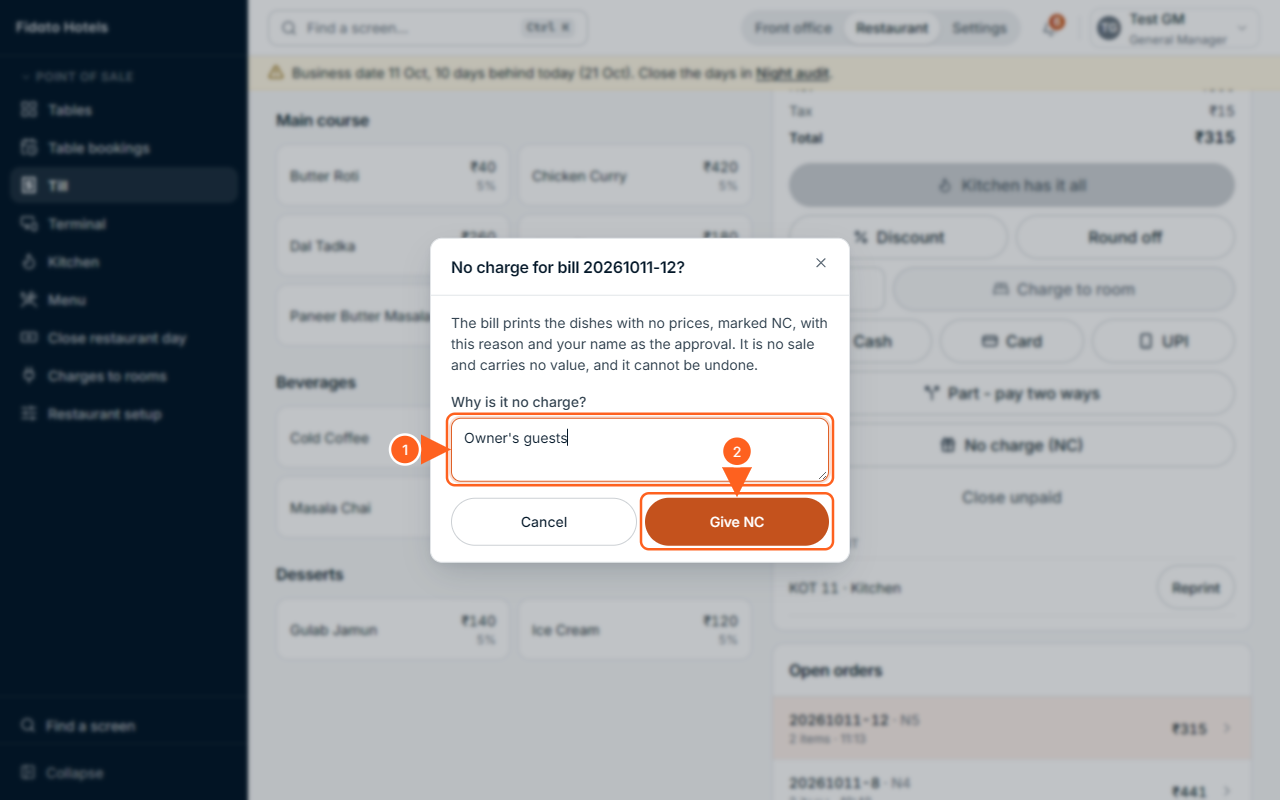
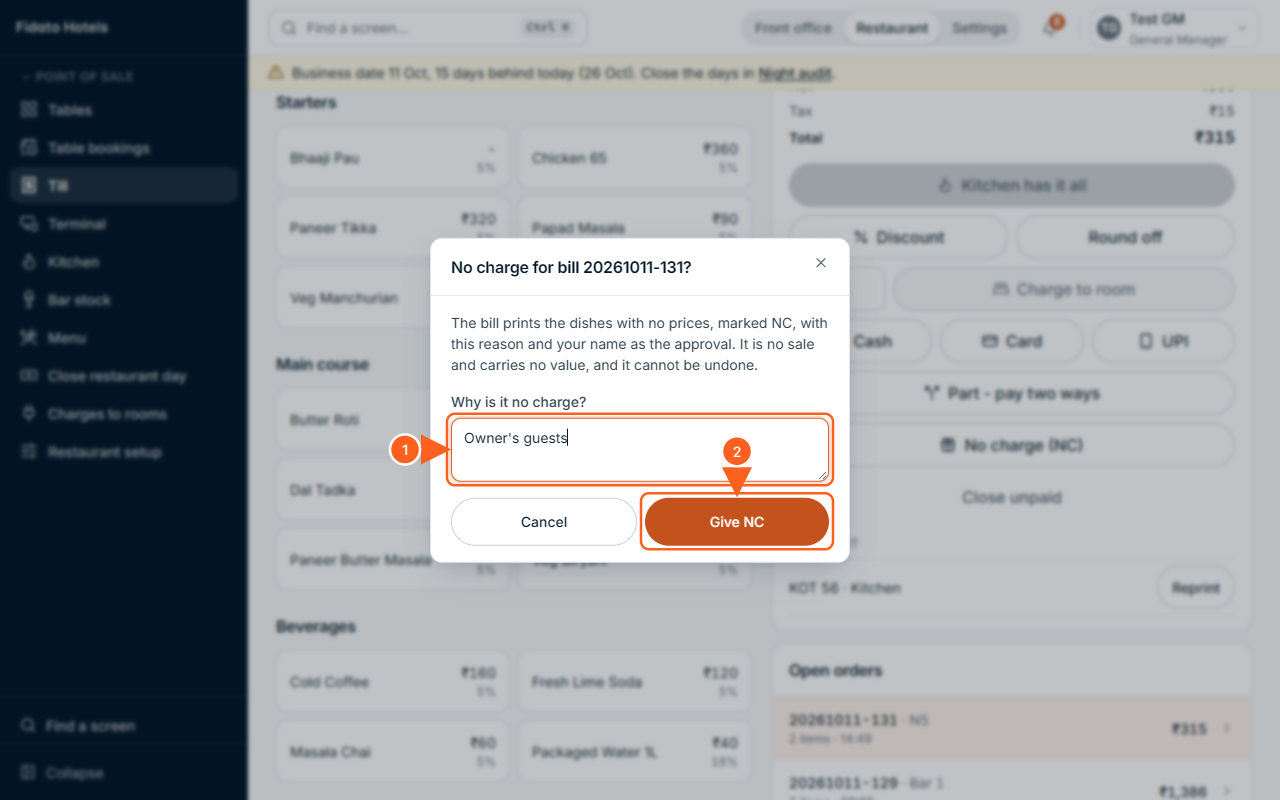
Release 14, part 1 (D27-365): an NC bill's screen without prices, Complimentary counting NC bills; Remove takes a connecting door off with the room; D27-367 recorded
NC (4): the Till and the Terminal show an NC bill's dishes and quantities, no price and no add-on
breakdown, as the paper; Close restaurant day's Complimentary tile counts the NC bills (it counted
100%-discounted ones). noCharge.test.tsx: both checks fail on the old code, pass now. A8-37, A8-38
retaken; A8 text.
Remove (6): a room with a connecting door is removed; clearing its side clears the other (043's
trigger), and the answer names the other room for the toast. roomRemove.test.ts 5/5. A17 text.
D27-367: Bar stock becomes a switch per hotel, fully off when off, on at every hotel.

diff --git a/docs/manual/manual.html b/docs/manual/manual.html
@@ -5131,10 +5131,10 @@ figure.shot.phone img { max-width: 72mm; }
     <ol class="callouts"><li>Why it is free: it prints on the bill</li><li>Give NC</li></ol>
   </figure>
 
-  <p>The bill reads <b>NC · No charge</b> in place of a total, with the reason, who approved it and when. The paper lists the dishes and how many, with no prices, no tax and no total, headed <b>NC · No charge</b>. The kitchen's KOTs stay as they were: the food was made. An NC bill is no sale and carries no value: the day's sales, the tax and the reports leave it out. <span class="ui">Close restaurant day</span> and the night audit list it under <span class="ui">No charge (NC)</span>, with who approved it, when and why. Its table is freed at once.</p>
+  <p>The bill reads <b>NC · No charge</b> in place of a total, with the reason, who approved it and when; on the screen, as on paper, each dish shows how many and no price. The paper lists the dishes and how many, with no prices, no tax and no total, headed <b>NC · No charge</b>. The kitchen's KOTs stay as they were: the food was made. An NC bill is no sale and carries no value: the day's sales, the tax and the reports leave it out. <span class="ui">Close restaurant day</span> and the night audit list it under <span class="ui">No charge (NC)</span>, with who approved it, when and why, and Close restaurant day's <span class="ui">Complimentary</span> tile counts the NC bills. Its table is freed at once.</p>
 
   <figure class="shot" id="fig-A8-38">
-    <img src="img/A8-38.png" alt="The NC bill on the Till: Total NC · No charge, the reason and Approved by Test GM, and Print the bill">
+    <img src="img/A8-38.png" alt="The NC bill on the Till: each dish with how many and no price, Total NC · No charge, the reason and Approved by Test GM, and Print the bill">
     <figcaption><b>Figure A8-38.</b> Given NC.</figcaption>
     <ol class="callouts"><li>The reason, who approved it and when</li><li>No total: NC</li></ol>
   </figure>
@@ -5190,7 +5190,7 @@ figure.shot.phone img { max-width: 72mm; }
 
   <div class="box why">
     <h4>Why it works this way</h4>
-    <p>A manager and a reason for food the kitchen has: <span class="d">D27-119</span>. Charge to room asks first, naming the guest: <span class="d">D27-117</span>; two open bills in a room, one button each: <span class="d">D27-162</span>. The Till sends to the kitchen like the Terminal: <span class="d">D27-166</span>. Close unpaid frees its table with Clear: <span class="d">D27-288</span>. Orders on a banquet function: <span class="d">D17-21</span>. Voiding a paid bill: <span class="d">D27-324</span>; its cash out of the tin: <span class="d">D27-327</span>. No charge (NC), the GM's, owner's or Admin's approval with a reason, no prices on the paper and no value anywhere: <span class="d">D27-351</span>. A waiter or cashier sends the GM a strike of a sent dish, a discount, an NC or a void, approving does it; a paid bill's cash, card or UPI changed before the night audit by the GM, the owner or an Admin, with a reason: <span class="d">D27-363</span>.</p>
+    <p>A manager and a reason for food the kitchen has: <span class="d">D27-119</span>. Charge to room asks first, naming the guest: <span class="d">D27-117</span>; two open bills in a room, one button each: <span class="d">D27-162</span>. The Till sends to the kitchen like the Terminal: <span class="d">D27-166</span>. Close unpaid frees its table with Clear: <span class="d">D27-288</span>. Orders on a banquet function: <span class="d">D17-21</span>. Voiding a paid bill: <span class="d">D27-324</span>; its cash out of the tin: <span class="d">D27-327</span>. No charge (NC), the GM's, owner's or Admin's approval with a reason, no prices on the paper and no value anywhere: <span class="d">D27-351</span>. A waiter or cashier sends the GM a strike of a sent dish, a discount, an NC or a void, approving does it; a paid bill's cash, card or UPI changed before the night audit by the GM, the owner or an Admin, with a reason: <span class="d">D27-363</span>. An NC bill's screen without prices, and Complimentary counting the NC bills: <span class="d">D27-365</span>.</p>
   </div>
 
   <!-- A8.8 -->
@@ -9907,7 +9907,7 @@ figure.shot.phone img { max-width: 72mm; }
     <li>Tap the room's tile, then <span class="ui">Remove</span> at the foot of its window.</li>
     <li>The window asks first. Tap <span class="ui">Remove room 309</span> to remove it, or <span class="ui">Keep it</span>. It then says <span class="msg">“Room 309 removed”</span>.</li>
   </ol>
-  <p>Only a room nothing has used can be removed: no booking, stay, housekeeping, key card, block, work order, lost item, wake-up call, equipment or guest link, and nobody in it. A used room is refused and says what used it: <span class="msg">“Room 101 has been used (a booking or stay), so it cannot be removed. Switch Sellable off instead.”</span> Untick <span class="ui">Sellable</span> instead, so old bills and Form C keep it. A room type whose rooms are all removed can then be removed too.</p>
+  <p>Only a room nothing has used can be removed: no booking, stay, housekeeping, key card, block, work order, lost item, wake-up call, equipment or guest link, and nobody in it. A used room is refused and says what used it: <span class="msg">“Room 101 has been used (a booking or stay), so it cannot be removed. Switch Sellable off instead.”</span> Untick <span class="ui">Sellable</span> instead, so old bills and Form C keep it. A room type whose rooms are all removed can then be removed too. A room with a connecting door is removed with its door: the other room is no longer connected, and the window says so: <span class="msg">“Room 309 removed. Its connecting door to room 310 was taken off.”</span></p>
 
   <h3>To add several rooms at once</h3>
   <ol class="steps">
@@ -9944,7 +9944,7 @@ figure.shot.phone img { max-width: 72mm; }
 
   <div class="box why">
     <h4>Why it works this way</h4>
-    <p>Nothing in use is deleted: reservations, rates and a year of bills point at a room type, and every stay at its room. A new hotel starts with no room types, and a room type nothing uses can be removed: <span class="d">D27-263</span>. Room types in Settings, with their amenities, photos and the rooms in order: <span class="d">D27-258</span>. Several rooms at once: one range, one floor typed for all, a number that exists skipped and named, the rest added: <span class="d">D27-309</span>. Room numbers with letters, both kinds of range, and always in capitals, so 111a can never be a second room beside 111A: <span class="d">D27-335</span>. A range as loose as each hotel's numbering, at most 100 rooms at a time, and a room nothing has used removed (a used one only switched off, so old bills and Form C keep it): <span class="d">D27-336</span>.</p>
+    <p>Nothing in use is deleted: reservations, rates and a year of bills point at a room type, and every stay at its room. A new hotel starts with no room types, and a room type nothing uses can be removed: <span class="d">D27-263</span>. Room types in Settings, with their amenities, photos and the rooms in order: <span class="d">D27-258</span>. Several rooms at once: one range, one floor typed for all, a number that exists skipped and named, the rest added: <span class="d">D27-309</span>. Room numbers with letters, both kinds of range, and always in capitals, so 111a can never be a second room beside 111A: <span class="d">D27-335</span>. A range as loose as each hotel's numbering, at most 100 rooms at a time, and a room nothing has used removed (a used one only switched off, so old bills and Form C keep it): <span class="d">D27-336</span>; a connecting door removed with its room: <span class="d">D27-365</span>.</p>
   </div>
 
   <!-- A17.6 -->

diff --git a/docs/manual/chapters/a8.html b/docs/manual/chapters/a8.html
@@ -467,10 +467,10 @@
     <ol class="callouts"><li>Why it is free: it prints on the bill</li><li>Give NC</li></ol>
   </figure>
 
-  <p>The bill reads <b>NC · No charge</b> in place of a total, with the reason, who approved it and when. The paper lists the dishes and how many, with no prices, no tax and no total, headed <b>NC · No charge</b>. The kitchen's KOTs stay as they were: the food was made. An NC bill is no sale and carries no value: the day's sales, the tax and the reports leave it out. <span class="ui">Close restaurant day</span> and the night audit list it under <span class="ui">No charge (NC)</span>, with who approved it, when and why. Its table is freed at once.</p>
+  <p>The bill reads <b>NC · No charge</b> in place of a total, with the reason, who approved it and when; on the screen, as on paper, each dish shows how many and no price. The paper lists the dishes and how many, with no prices, no tax and no total, headed <b>NC · No charge</b>. The kitchen's KOTs stay as they were: the food was made. An NC bill is no sale and carries no value: the day's sales, the tax and the reports leave it out. <span class="ui">Close restaurant day</span> and the night audit list it under <span class="ui">No charge (NC)</span>, with who approved it, when and why, and Close restaurant day's <span class="ui">Complimentary</span> tile counts the NC bills. Its table is freed at once.</p>
 
   <figure class="shot" id="fig-A8-38">
-    <img src="img/A8-38.png" alt="The NC bill on the Till: Total NC · No charge, the reason and Approved by Test GM, and Print the bill">
+    <img src="img/A8-38.png" alt="The NC bill on the Till: each dish with how many and no price, Total NC · No charge, the reason and Approved by Test GM, and Print the bill">
     <figcaption><b>Figure A8-38.</b> Given NC.</figcaption>
     <ol class="callouts"><li>The reason, who approved it and when</li><li>No total: NC</li></ol>
   </figure>
@@ -526,7 +526,7 @@
 
   <div class="box why">
     <h4>Why it works this way</h4>
-    <p>A manager and a reason for food the kitchen has: <span class="d">D27-119</span>. Charge to room asks first, naming the guest: <span class="d">D27-117</span>; two open bills in a room, one button each: <span class="d">D27-162</span>. The Till sends to the kitchen like the Terminal: <span class="d">D27-166</span>. Close unpaid frees its table with Clear: <span class="d">D27-288</span>. Orders on a banquet function: <span class="d">D17-21</span>. Voiding a paid bill: <span class="d">D27-324</span>; its cash out of the tin: <span class="d">D27-327</span>. No charge (NC), the GM's, owner's or Admin's approval with a reason, no prices on the paper and no value anywhere: <span class="d">D27-351</span>. A waiter or cashier sends the GM a strike of a sent dish, a discount, an NC or a void, approving does it; a paid bill's cash, card or UPI changed before the night audit by the GM, the owner or an Admin, with a reason: <span class="d">D27-363</span>.</p>
+    <p>A manager and a reason for food the kitchen has: <span class="d">D27-119</span>. Charge to room asks first, naming the guest: <span class="d">D27-117</span>; two open bills in a room, one button each: <span class="d">D27-162</span>. The Till sends to the kitchen like the Terminal: <span class="d">D27-166</span>. Close unpaid frees its table with Clear: <span class="d">D27-288</span>. Orders on a banquet function: <span class="d">D17-21</span>. Voiding a paid bill: <span class="d">D27-324</span>; its cash out of the tin: <span class="d">D27-327</span>. No charge (NC), the GM's, owner's or Admin's approval with a reason, no prices on the paper and no value anywhere: <span class="d">D27-351</span>. A waiter or cashier sends the GM a strike of a sent dish, a discount, an NC or a void, approving does it; a paid bill's cash, card or UPI changed before the night audit by the GM, the owner or an Admin, with a reason: <span class="d">D27-363</span>. An NC bill's screen without prices, and Complimentary counting the NC bills: <span class="d">D27-365</span>.</p>
   </div>
 
   <!-- A8.8 -->

diff --git a/docs/manual/chapters/a17.html b/docs/manual/chapters/a17.html
@@ -456,7 +456,7 @@
     <li>Tap the room's tile, then <span class="ui">Remove</span> at the foot of its window.</li>
     <li>The window asks first. Tap <span class="ui">Remove room 309</span> to remove it, or <span class="ui">Keep it</span>. It then says <span class="msg">“Room 309 removed”</span>.</li>
   </ol>
-  <p>Only a room nothing has used can be removed: no booking, stay, housekeeping, key card, block, work order, lost item, wake-up call, equipment or guest link, and nobody in it. A used room is refused and says what used it: <span class="msg">“Room 101 has been used (a booking or stay), so it cannot be removed. Switch Sellable off instead.”</span> Untick <span class="ui">Sellable</span> instead, so old bills and Form C keep it. A room type whose rooms are all removed can then be removed too.</p>
+  <p>Only a room nothing has used can be removed: no booking, stay, housekeeping, key card, block, work order, lost item, wake-up call, equipment or guest link, and nobody in it. A used room is refused and says what used it: <span class="msg">“Room 101 has been used (a booking or stay), so it cannot be removed. Switch Sellable off instead.”</span> Untick <span class="ui">Sellable</span> instead, so old bills and Form C keep it. A room type whose rooms are all removed can then be removed too. A room with a connecting door is removed with its door: the other room is no longer connected, and the window says so: <span class="msg">“Room 309 removed. Its connecting door to room 310 was taken off.”</span></p>
 
   <h3>To add several rooms at once</h3>
   <ol class="steps">
@@ -493,7 +493,7 @@
 
   <div class="box why">
     <h4>Why it works this way</h4>
-    <p>Nothing in use is deleted: reservations, rates and a year of bills point at a room type, and every stay at its room. A new hotel starts with no room types, and a room type nothing uses can be removed: <span class="d">D27-263</span>. Room types in Settings, with their amenities, photos and the rooms in order: <span class="d">D27-258</span>. Several rooms at once: one range, one floor typed for all, a number that exists skipped and named, the rest added: <span class="d">D27-309</span>. Room numbers with letters, both kinds of range, and always in capitals, so 111a can never be a second room beside 111A: <span class="d">D27-335</span>. A range as loose as each hotel's numbering, at most 100 rooms at a time, and a room nothing has used removed (a used one only switched off, so old bills and Form C keep it): <span class="d">D27-336</span>.</p>
+    <p>Nothing in use is deleted: reservations, rates and a year of bills point at a room type, and every stay at its room. A new hotel starts with no room types, and a room type nothing uses can be removed: <span class="d">D27-263</span>. Room types in Settings, with their amenities, photos and the rooms in order: <span class="d">D27-258</span>. Several rooms at once: one range, one floor typed for all, a number that exists skipped and named, the rest added: <span class="d">D27-309</span>. Room numbers with letters, both kinds of range, and always in capitals, so 111a can never be a second room beside 111A: <span class="d">D27-335</span>. A range as loose as each hotel's numbering, at most 100 rooms at a time, and a room nothing has used removed (a used one only switched off, so old bills and Form C keep it): <span class="d">D27-336</span>; a connecting door removed with its room: <span class="d">D27-365</span>.</p>
   </div>
 
   <!-- A17.6 -->

diff --git a/api/src/modules/inventory/inventorySetup.ts b/api/src/modules/inventory/inventorySetup.ts
@@ -343,13 +343,14 @@ inventorySetup.patch("/:code/rooms/:number", async (c) => {
    EVERY table that points at a room is asked by name, the CASCADE ones too
    (housekeeping assignments, key cards, blocks): left to the foreign key
    they would be deleted with the room, silently. A used room is only
-   switched off, so old bills and Form C keep it. */
+   switched off, so old bills and Form C keep it. A connecting door goes with
+   the room, and the answer names the room on its other side (D27-365 (6)). */
 inventorySetup.delete("/:code/rooms/:number", async (c) => {
   const number = c.req.param("number");
   const result = await withSession(c.get("subject"), async (client) => {
     const hotelId = await hotelFor(client, c.req.param("code"));
     if (!hotelId) return null;
-    const { rows } = await client.query<{ id: string; uses: string | null }>(
+    const { rows } = await client.query<{ id: string; uses: string | null; connected: string | null }>(
       `select r.id::text,
               case
                 when r.occupancy_status <> 'vacant' then 'somebody is in it'
@@ -364,9 +365,8 @@ inventorySetup.delete("/:code/rooms/:number", async (c) => {
                 when exists (select 1 from equipment_history where room_id = r.id)
                   or exists (select 1 from equipment_moves where r.id in (from_room_id, to_room_id)) then 'equipment'
                 when exists (select 1 from guest_links where room_id = r.id) then 'a guest link'
-                /* 043 keeps a connection mutual, so one side says it. */
-                when r.connected_room_id is not null then 'a connecting room'
-              end as uses
+              end as uses,
+              (select n.number from rooms n where n.id = r.connected_room_id) as connected
          from rooms r where r.hotel_id = $1 and r.number = $2`, [hotelId, number]);
     if (!rows[0]) return "missing" as const;
     if (rows[0].uses) {
@@ -375,6 +375,8 @@ inventorySetup.delete("/:code/rooms/:number", async (c) => {
     }
     try {
       await client.query("savepoint gone");
+      /* Clearing this side clears the other (043's trigger keeps it mutual). */
+      if (rows[0].connected) await client.query("update rooms set connected_room_id = null where id = $1", [rows[0].id]);
       await client.query("delete from rooms where id = $1 and hotel_id = $2", [rows[0].id, hotelId]);
     } catch (error) {
       await client.query("rollback to savepoint gone");
@@ -383,7 +385,7 @@ inventorySetup.delete("/:code/rooms/:number", async (c) => {
       }
       throw error;
     }
-    return { ok: true as const };
+    return { ok: true as const, unlinked: rows[0].connected };
   });
   if (result === null) return c.json({ error: "No such property." }, 404);
   if (result === "missing") return c.json({ error: "No such room." }, 404);

diff --git a/src/modules/pos/noCharge.test.tsx b/src/modules/pos/noCharge.test.tsx
@@ -1,6 +1,6 @@
 import { describe, it, expect, beforeEach, afterEach, vi } from "vitest";
 import type { ReactElement } from "react";
-import { render, screen, fireEvent } from "@testing-library/react";
+import { render, screen, fireEvent, within } from "@testing-library/react";
 import { QueryClient, QueryClientProvider } from "@tanstack/react-query";
 import { MemoryRouter, Routes, Route } from "react-router";
 import * as apiModule from "@/lib/api";
@@ -125,6 +125,10 @@ describe("the Till - NC, no charge", () => {
     await vi.waitFor(() => expect(calls.some((c) => c.path.endsWith("/bill-print"))).toBe(true));
     expect(screen.getByText("NC · No charge"), "no value: the total says NC").toBeTruthy();
     expect(screen.queryByRole("button", { name: "No charge (NC)" }), "NC for good").toBeNull();
+    /* The screen as the paper: the dish and its quantity, no price (D27-365 (4)). */
+    const line = screen.getAllByText("Paneer Tikka").map((e) => e.closest("li")).find((li) => li?.textContent?.includes("×"));
+    expect(line, "the order's line").toBeTruthy();
+    expect(line!.textContent, "no price on an NC bill's line").not.toMatch(/320|640/);
   });
 
   it("a waiter, reception or the hotel manager never sees it", async () => {
@@ -170,8 +174,9 @@ describe("Close restaurant day - the NC bills", () => {
     as("gm");
     const day: DayEnd = {
       outlet: { code: "REST", name: "Fidato Restaurant" }, businessDate: "2026-08-25",
+      /* compOrders counts 100%-discounted bills; the tile counts NC bills (D27-365 (4)). */
       summary: { settledOrders: 0, settledValue: 0, abandonedOrders: 0, abandonedValue: 0,
-                 compOrders: 0, discountGiven: 0, byMethod: {} },
+                 compOrders: 3, discountGiven: 0, byMethod: {} },
       blockers: [], struck: [], voided: [],
       noCharge: [{ orderNo: "20260825-5", table: "4", outlet: "Fidato Restaurant",
                    reason: "Owner's guests", by: "Hotel Manager GM", at: "21:05" }],
@@ -189,5 +194,8 @@ describe("Close restaurant day - the NC bills", () => {
     expect(await screen.findByText("No charge (NC)")).toBeTruthy();
     expect(screen.getByText("20260825-5 · 4 - Owner's guests")).toBeTruthy();
     expect(screen.getByText("Approved by Hotel Manager GM · 21:05")).toBeTruthy();
+    const tile = screen.getByText("Complimentary").closest("div")!.parentElement!;
+    expect(within(tile).getByText("NC bill, given free")).toBeTruthy();
+    expect(within(tile).getByText("1"), "one NC bill, not the three 100% discounts").toBeTruthy();
   });
 });

diff --git a/src/modules/pos/pages/Terminal.tsx b/src/modules/pos/pages/Terminal.tsx
@@ -861,12 +861,15 @@ export default function TerminalPage() {
                       )}>
                         {l.extra ? `+ ${l.name}` : l.name}
                       </span>
-                      <span className="tabular text-base text-ink-900">
-                        {moneyPrecise(l.qty * l.unitPrice)}
-                      </span>
+                      {/* An NC bill shows no prices, as its paper (D27-365 (4)). */}
+                      {order.status !== "no_charge" && (
+                        <span className="tabular text-base text-ink-900">
+                          {moneyPrecise(l.qty * l.unitPrice)}
+                        </span>
+                      )}
                     </div>
                     {/* The owner's breakdown (D27-289), under the one line. */}
-                    {l.numberedAddons && (
+                    {l.numberedAddons && order.status !== "no_charge" && (
                       <p className="text-2xs text-grey-600 tabular mt-0.5 pl-0.5 truncate">
                         {addonBreakdown(l.numberedAddons)}
                       </p>
@@ -953,7 +956,8 @@ export default function TerminalPage() {
                     ) : (
                       <div className="flex items-center gap-2 mt-0.5">
                         <p className="text-2xs text-grey-500 tabular">
-                          {l.qty} × {l.extra && l.unitPrice === 0 ? "Free" : moneyPrecise(l.unitPrice)}
+                          {order.status === "no_charge" ? `Qty ${l.qty}`
+                            : `${l.qty} × ${l.extra && l.unitPrice === 0 ? "Free" : moneyPrecise(l.unitPrice)}`}
                         </p>
                         {/* An add-on line comes off by itself (D27-291). */}
                         {l.extra && !l.voided && order.status === "open" && (

diff --git a/api/test/modules/inventory/roomRemove.test.ts b/api/test/modules/inventory/roomRemove.test.ts
@@ -31,7 +31,7 @@ const exists = async (number: string) => (await sql(
   "select 1 from rooms r join hotels h on h.id = r.hotel_id where h.code = '5EL' and r.number = $1", [number])).length > 0;
 
 let typeId = "";
-const MINE = ["RM1", "RM2", "RM3", "RM4"];
+const MINE = ["RM1", "RM2", "RM3", "RM4", "RM5", "RM6"];
 
 beforeAll(async () => {
   typeId = (await sql<{ id: string }>(
@@ -86,6 +86,22 @@ describe("Remove a room (D27-336)", () => {
     const busy = await call("DELETE", "/rooms/RM3");
     expect(busy.status).toBe(409);
     expect(await reasonOf(busy)).toMatch(/^Room RM3 has been used \(somebody is in it\)/);
+  });
+
+  it("takes a connecting door off with the room, and names the room on its other side (D27-365 (6))", async () => {
+    expect((await call("POST", "/rooms", { number: "RM5", roomTypeId: typeId })).status).toBe(200);
+    expect((await call("POST", "/rooms", { number: "RM6", roomTypeId: typeId })).status).toBe(200);
+    await sql(
+      `update rooms set connected_room_id = (select id from rooms where number = 'RM6' and hotel_id = hotel_id limit 1)
+        where number = 'RM5' and hotel_id = (select id from hotels where code = '5EL')`);
+    expect(await sql("select 1 from rooms where number = 'RM6' and connected_room_id is not null"), "043 points back")
+      .toHaveLength(1);
+    const res = await call("DELETE", "/rooms/RM5");
+    expect(res.status, await res.clone().text()).toBe(200);
+    expect(await res.json()).toEqual({ ok: true, unlinked: "RM6" });
+    expect(await exists("RM5")).toBe(false);
+    expect(await sql("select 1 from rooms where number = 'RM6' and connected_room_id is null"), "RM6 no longer points back")
+      .toHaveLength(1);
   });
 
   it("removes a type once its only room is removed", async () => {

diff --git a/src/modules/pos/pages/Till.tsx b/src/modules/pos/pages/Till.tsx
@@ -1386,15 +1386,18 @@ function OrderPanel({
                   </span>
                   {/* The owner's breakdown (D27-289): what the dish and each
                       numbered add-on cost, under the one line. */}
-                  {line.numberedAddons && (
+                  {line.numberedAddons && order.status !== "no_charge" && (
                     <span className="block truncate text-2xs text-grey-600 tabular">
                       {addonBreakdown(line.numberedAddons)}
                     </span>
                   )}
                 </span>
-                <span className="tabular text-base text-ink-900 shrink-0">
-                  {money(line.qty * line.unitPrice)}
-                </span>
+                {/* An NC bill shows no prices, as its paper (D27-365 (4)). */}
+                {order.status !== "no_charge" && (
+                  <span className="tabular text-base text-ink-900 shrink-0">
+                    {money(line.qty * line.unitPrice)}
+                  </span>
+                )}
                 {/* Customise on any dish (D27-289); once the kitchen has it, its
                     add-ons are lines of their own for the next Send (D27-291). */}
                 {!settled && !line.voided && line.parentLineId === null && !line.packing && (

diff --git a/src/modules/pos/pages/DayEnd.tsx b/src/modules/pos/pages/DayEnd.tsx
@@ -266,8 +266,9 @@ function Overview({ day }: { day: DayEnd }) {
                     note={`${s.abandonedOrders} abandoned`} />
         <FigureTile icon={<Percent />} label="Discount given" value={money(s.discountGiven)}
                     note="Off the settled bills" />
-        <FigureTile icon={<Gift />} label="Complimentary" value={String(s.compOrders)}
-                    note={s.compOrders === 1 ? "bill, nothing to pay" : "bills, nothing to pay"} />
+        {/* The NC bills given free (D27-365 (4)); it counted 100%-discounted bills. */}
+        <FigureTile icon={<Gift />} label="Complimentary" value={String((day.noCharge ?? []).length)}
+                    note={(day.noCharge ?? []).length === 1 ? "NC bill, given free" : "NC bills, given free"} />
       </FigureRow>
 
       <Card>

diff --git a/src/modules/inventory/data/roomSetup.ts b/src/modules/inventory/data/roomSetup.ts
@@ -163,7 +163,8 @@ export async function amendRoom(
 }
 
 /** Only a room nothing has used (D27-336); the server says what has. */
-export const removeRoom = (hotelId: string, number: string): Promise<Result> =>
+/** `unlinked`: the room on the other side of a connecting door, taken off with it (D27-365 (6)). */
+export const removeRoom = (hotelId: string, number: string): Promise<Result<{ unlinked: string | null }>> =>
   call(`/api/hotels/${hotelId}/rooms/${encodeURIComponent(number)}`, "DELETE");
 
 

diff --git a/src/modules/inventory/pages/RoomSetup.tsx b/src/modules/inventory/pages/RoomSetup.tsx
@@ -697,7 +697,8 @@ function RoomDialog({
     const res = await removeRoom(hotelId, room!.number);
     setBusy(false);
     if (!res.ok) { setRemoving(false); return toast.error("Not removed", res.reason); }
-    toast.success(`Room ${room!.number} removed`);
+    toast.success(`Room ${room!.number} removed`,
+      res.unlinked ? `Its connecting door to room ${res.unlinked} was taken off.` : undefined);
     onDone();
   };
 

diff --git a/docs/briefs/decisions-2026-09-27.md b/docs/briefs/decisions-2026-09-27.md
@@ -368,3 +368,4 @@
 | D27-364 | Other moves on the bar's store sheet (25 Oct) | Asked while release 13's checks ran: the Bar store's row (opening, received, to the counter, closing) stopped adding up when a breakage, wastage or count correction changed the closing. The owner: **add an "Other moves" column** to the store's sheet and the Simple counter sheet, so every row adds up; the "like the paper" counter sheet stays exactly like the paper. In release 13. |
 | D27-365 | The open questions answered, and "build them" (26 Oct) | The owner: *"complete them and also build them so that we are aligned"*. **(1) The owner's allowance (D27-355): the % off above the free amount is a setting the owner fills in Settings** - no figure is built in; until it is set, a dash. **(2) Dashboard charts: all seven points as recommended** (D27-217 to 219's design: the new words, a half-strength blue for nights ahead, a gap not 0 for an unsold night, Revenue leads with the month, navy and grey split bars, the calendar month, Occupancy on its own row under 1440 px). **(3) The owner-only full reset (D27-342): all four as recommended** - one hotel at a time, refused while guests are checked in, a backup first (copied off the server once off-site backups exist), the test hotels keep their Reset. **(4) NC bills: no prices on the screen, as on paper; the Complimentary tile counts NC bills.** **(5) The guest's own proforma identical to the desk's** (stay facts, payments, HSN/SAC). **(6) Remove clears a connecting room's link** and says so. **(7) The Fidato Printer app updates itself** from our server, once a day. **(8) No code-signing certificate for now.** |
 | D27-366 | The owner's allowance and the printer app's update, settled (26 Oct) | All as recommended. **The part above the free amount is paid at the till** (cash, card or UPI) after the % off - no monthly bill to the owner. **GST on the free food is recorded as for a sale** at the menu price until the CA and the contract say otherwise. **Only the GM, the owner or an Admin settles a bill to the owner's allowance.** **The Fidato Printer installs a downloaded update straight away** (a few seconds; a KOT sent meanwhile prints when it is back). Also: the MRP value of NC bills (D27-351) goes with Inventory's Restaurant tab, where the stock is valued. |
+| D27-367 | Bar stock as a switch (26 Oct) | The owner: *"make the bar a toggle menu option where we toggle to use it"*. A **Bar stock** switch for each hotel in Admin → Properties (the owner or an Admin, like the other modules). **Off means fully off**: the Bar stock screen, Inventory's Bar tab, the bar bills, the Bar stock report and the FLR registers go and the server refuses them; KOTs take nothing off the bar's stock; the night audit never waits for a bar count. Bar KOTs still print at the bar. **On at every hotel when it goes live** (as it is today); a new hotel starts with it on too (the master's reading of "every hotel", to confirm). |
